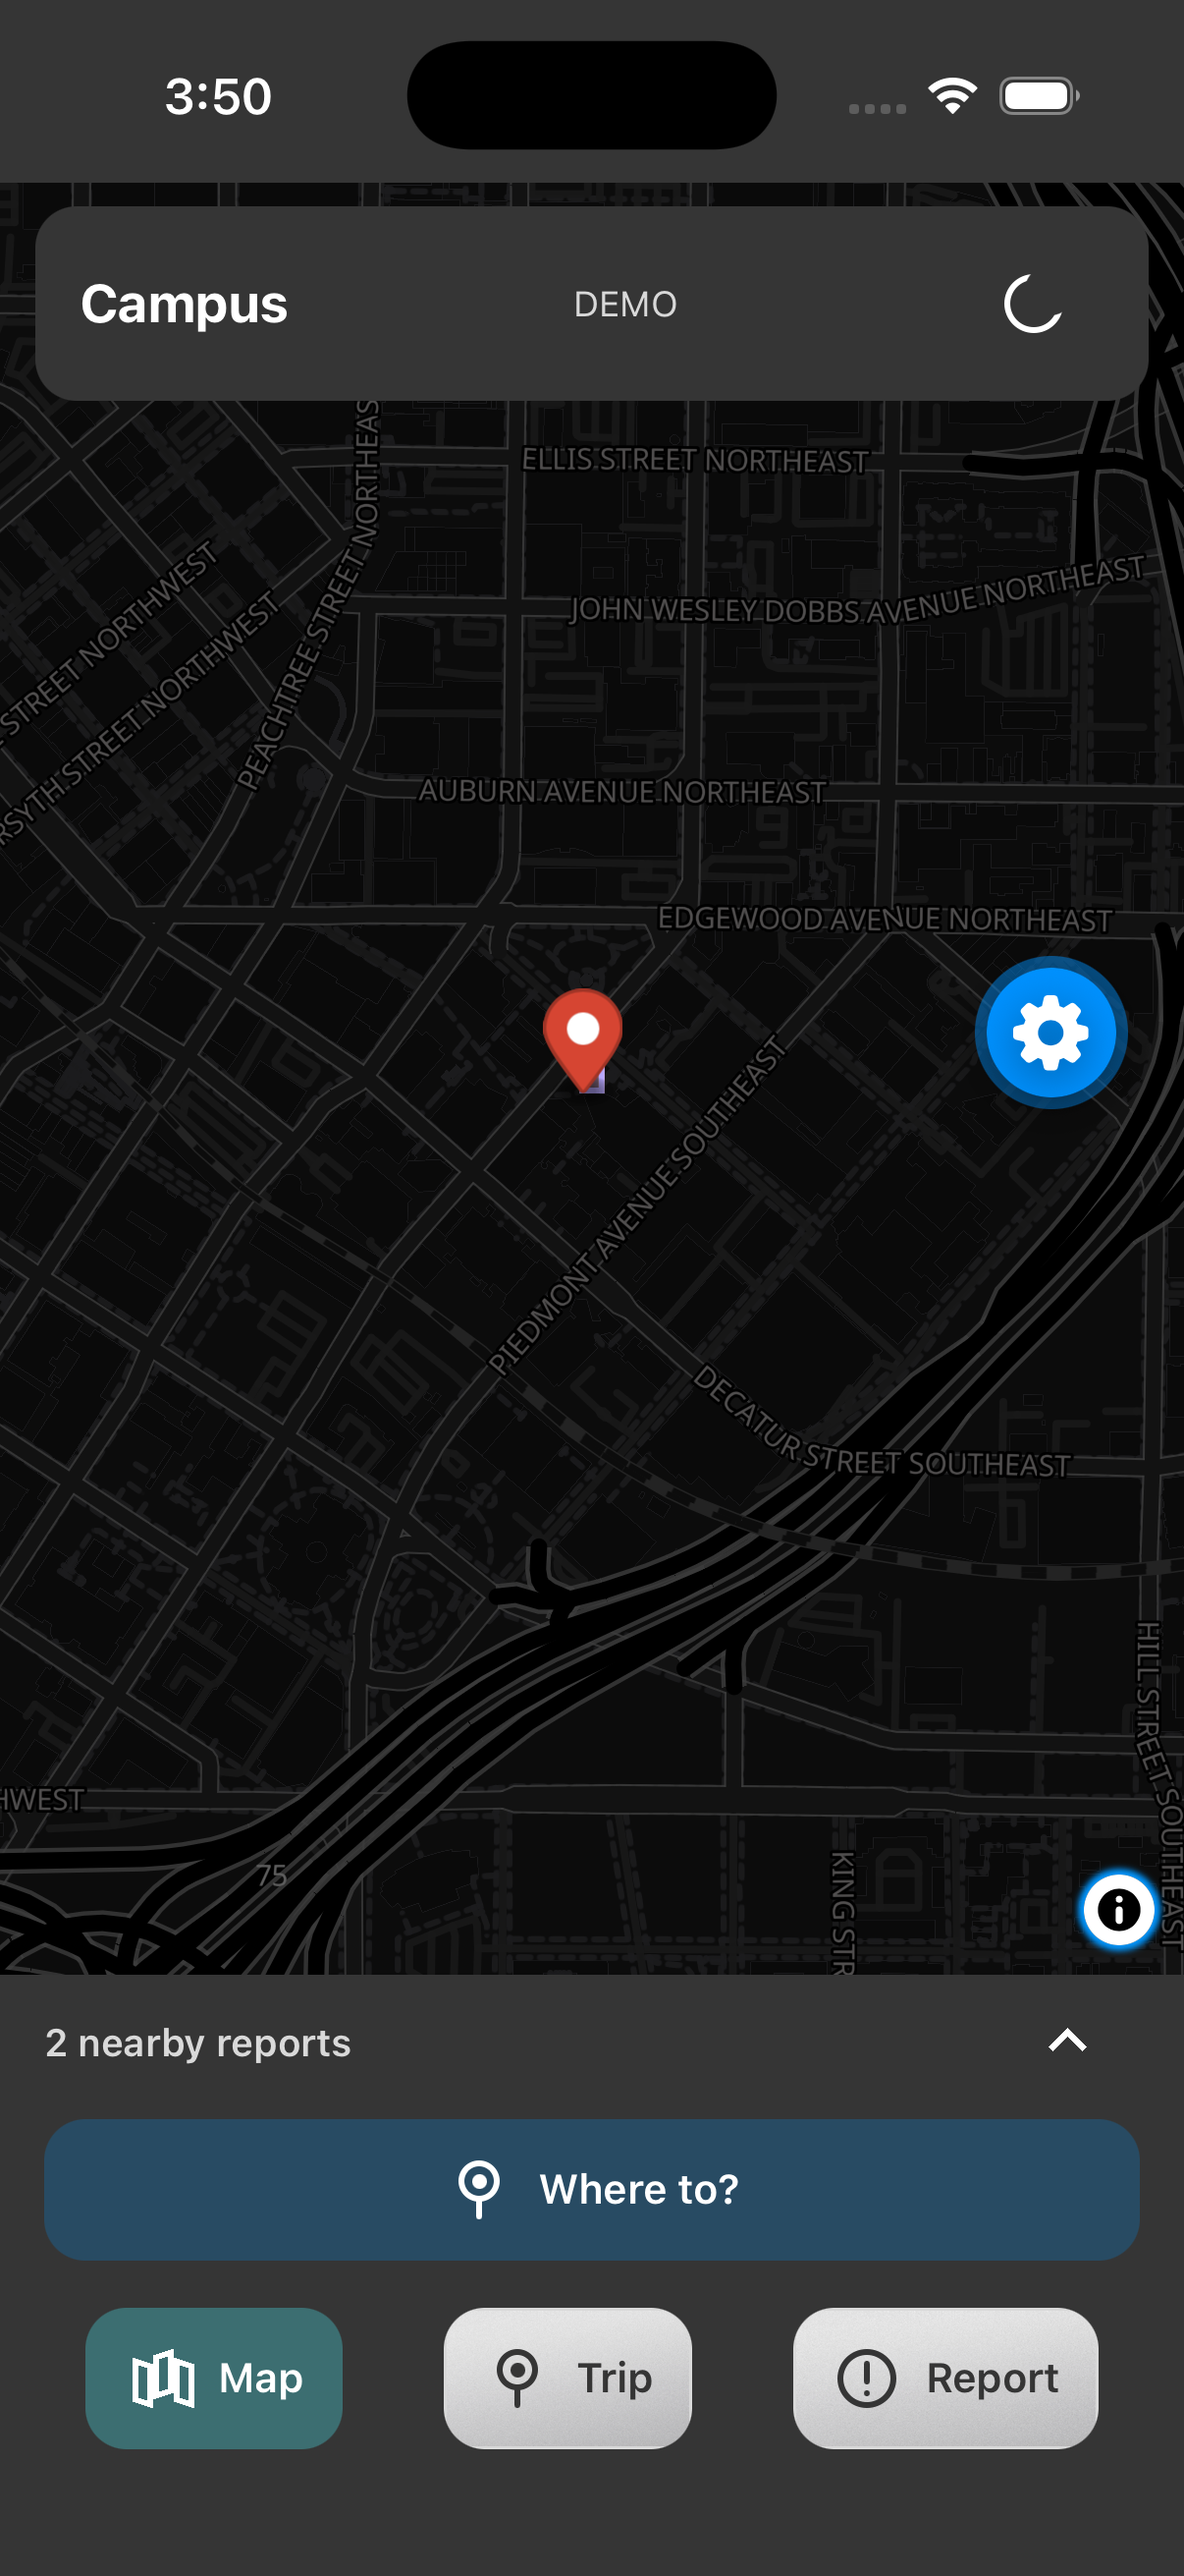
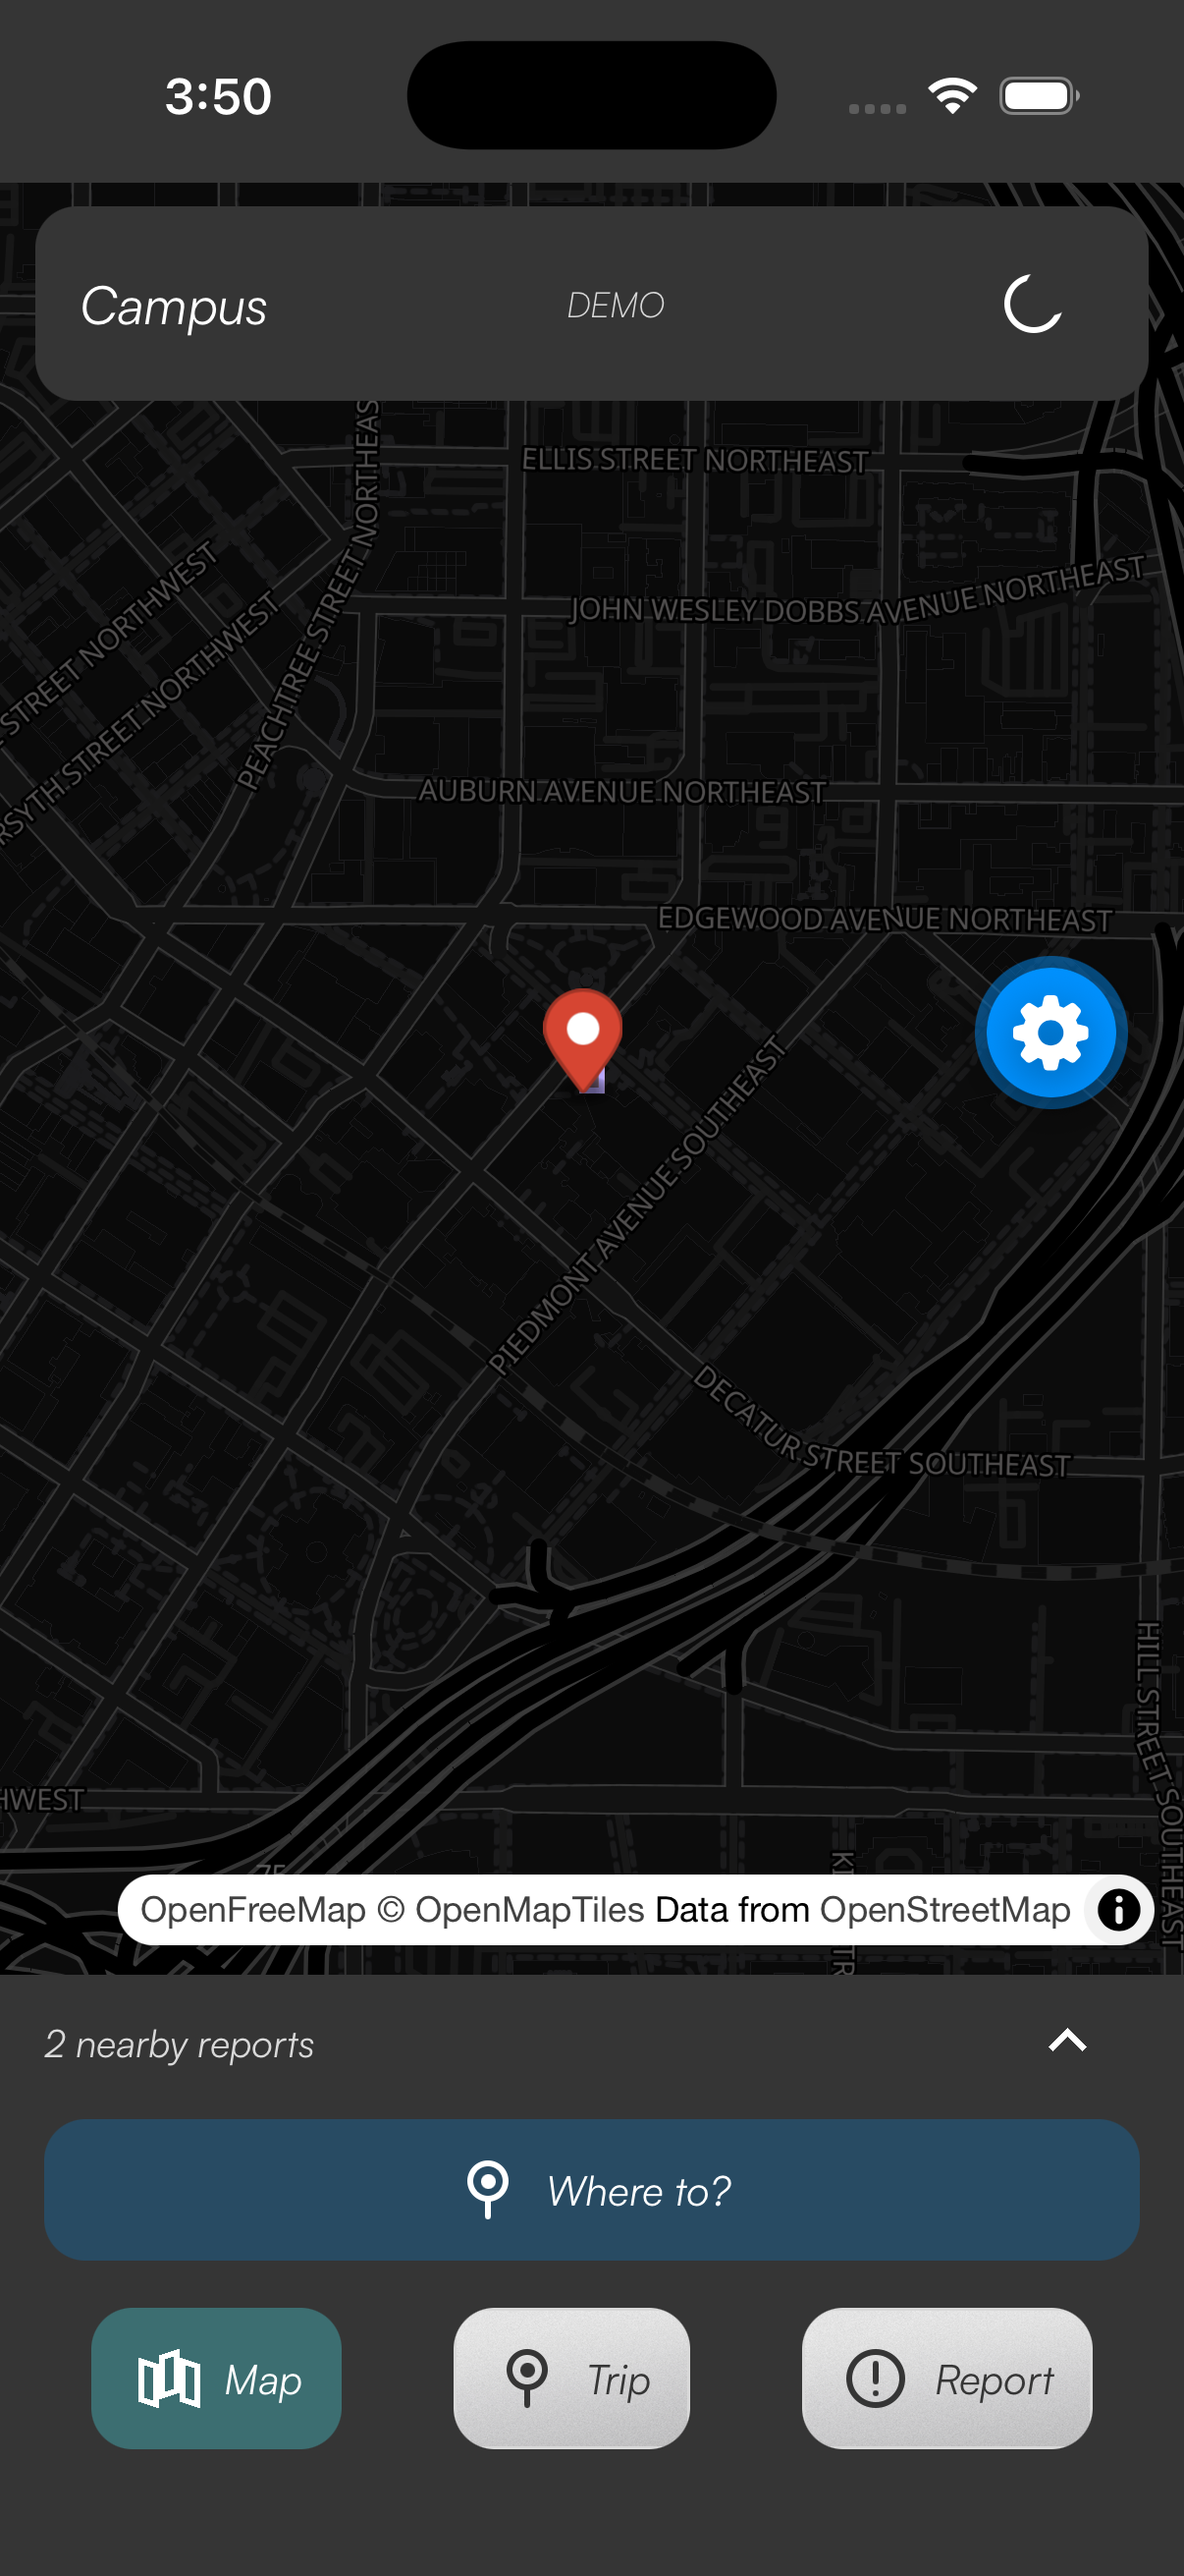
Use Satoshi Italic and Light Italic across the mobile UI

diff --git a/mobile/App.tsx b/mobile/App.tsx
@@ -241,28 +241,28 @@ const createStyles = (theme: Theme) => StyleSheet.create({
   header: { flexDirection: 'row', alignItems: 'center', justifyContent: 'space-between', flexWrap: 'wrap',
     gap: 6, alignSelf: 'stretch', marginHorizontal: 12, backgroundColor: theme.surface,
     borderRadius: theme.radius, paddingHorizontal: 14, paddingVertical: 10, borderWidth: 1, borderColor: theme.line },
-  title: { fontSize: 18, fontWeight: '700', color: theme.ink },
-  headerMeta: { fontSize: 12, color: theme.muted },
-  notice: { padding: 8, marginHorizontal: 12, backgroundColor: theme.surface, color: theme.warning },
+  title: { fontFamily: theme.fontBody, fontSize: 18, color: theme.ink },
+  headerMeta: { fontFamily: theme.fontLight, fontSize: 12, color: theme.muted },
+  notice: { fontFamily: theme.fontBody, padding: 8, marginHorizontal: 12, backgroundColor: theme.surface, color: theme.warning },
   space: { flex: 1 },
   dock: { maxHeight: '36%', backgroundColor: theme.surface, borderTopLeftRadius: 22, borderTopRightRadius: 22,
     borderWidth: 1, borderColor: theme.line, paddingHorizontal: 14, paddingBottom: 4 },
   dockExpanded: { maxHeight: '65%' },
   sheetHeader: { flexDirection: 'row', alignItems: 'center', justifyContent: 'space-between', minHeight: 44 },
-  sheetLabel: { fontSize: 13, fontWeight: '600', color: theme.muted },
+  sheetLabel: { fontFamily: theme.fontBody, fontSize: 13, color: theme.muted },
   iconButton: { width: 48, height: 44, alignItems: 'center', justifyContent: 'center' },
   tabs: { flexDirection: 'row', flexWrap: 'wrap', justifyContent: 'space-around', gap: 6 },
   categories: { flexDirection: 'row', gap: 6, marginVertical: 6 },
   category: { overflow: 'hidden', backgroundColor: theme.quiet, flex: 1, alignItems: 'center', justifyContent: 'center', gap: 6, minHeight: 64, paddingVertical: 8, borderWidth: 1, borderColor: theme.line, borderRadius: theme.radius },
   categorySelected: { backgroundColor: theme.selected, borderColor: theme.selectedEdge },
-  categoryLabel: { fontSize: 11, color: theme.controlInk, textAlign: 'center' },
+  categoryLabel: { fontFamily: theme.fontBody, fontSize: 11, color: theme.controlInk, textAlign: 'center' },
   categoryLabelSelected: { color: theme.inverse },
   content: { flexShrink: 1 }, contentInner: { paddingBottom: 8 },
-  caption: { fontSize: 12, lineHeight: 18, color: theme.muted },
-  source: { color: theme.ink, fontSize: 12, fontWeight: '600' },
+  caption: { fontFamily: theme.fontLight, fontSize: 12, lineHeight: 18, color: theme.muted },
+  source: { fontFamily: theme.fontBody, color: theme.ink, fontSize: 12, fontWeight: '600' },
   card: { paddingVertical: 10, borderBottomWidth: 1, borderColor: theme.line },
-  heading: { fontSize: 16, fontWeight: '600', color: theme.ink, marginVertical: 4 },
-  input: { color: theme.ink, backgroundColor: theme.surface, borderWidth: 1, borderColor: theme.line, borderRadius: theme.radius,
+  heading: { fontFamily: theme.fontBody, fontSize: 16, color: theme.ink, marginVertical: 4 },
+  input: { fontFamily: theme.fontBody, color: theme.ink, backgroundColor: theme.surface, borderWidth: 1, borderColor: theme.line, borderRadius: theme.radius,
     padding: 12, marginVertical: 8, minHeight: theme.touch },
-  error: { color: theme.danger, marginVertical: 8 },
+  error: { fontFamily: theme.fontBody, color: theme.danger, marginVertical: 8 },
 });

diff --git a/mobile/src/ui/theme.ts b/mobile/src/ui/theme.ts
@@ -1,4 +1,5 @@
 import { createContext, createElement, useContext, useState, type ReactNode } from 'react';
+import { useFonts } from 'expo-font';
 import { useColorScheme } from 'react-native';
 
 /** Operator palette: coolors.co/palette/353535-3c6e71-ffffff-d9d9d9-284b63 */
@@ -14,6 +15,7 @@ const light = {
   primary: palette.blue as string, primaryEdge: palette.blue as string,
   inverse: palette.white as string, warning: palette.blue as string, danger: '#a00020',
   routeShortest: palette.charcoal as string, routeLowerRisk: palette.cyan as string,
+  fontBody: undefined as string | undefined, fontLight: undefined as string | undefined,
   radius: 14, touch: 48,
 };
 export type Theme = typeof light;
@@ -24,14 +26,18 @@ const dark: Theme = {
   warning: palette.silver, danger: '#ffb4ab', routeShortest: palette.silver,
 };
 type Appearance = 'light' | 'dark';
-const AppearanceContext = createContext<{ scheme: Appearance; toggle(): void } | null>(null);
+const AppearanceContext = createContext<{ scheme: Appearance; fontsReady: boolean; toggle(): void } | null>(null);
 
 export function ThemeProvider({ children }: { children: ReactNode }) {
+  const [fontsReady] = useFonts({
+    'Satoshi-Italic': require('../../assets/fonts/Satoshi-Italic.otf'),
+    'Satoshi-LightItalic': require('../../assets/fonts/Satoshi-LightItalic.otf'),
+  });
   const system = useColorScheme();
   const [override, setOverride] = useState<Appearance | null>(null);
   const scheme = override ?? (system === 'dark' ? 'dark' : 'light');
   return createElement(AppearanceContext.Provider, {
-    value: { scheme, toggle: () => setOverride(scheme === 'dark' ? 'light' : 'dark') },
+    value: { scheme, fontsReady, toggle: () => setOverride(scheme === 'dark' ? 'light' : 'dark') },
   }, children);
 }
 export function useAppearance() {
@@ -40,5 +46,9 @@ export function useAppearance() {
   return appearance;
 }
 export function useTheme(): Theme {
-  return useAppearance().scheme === 'dark' ? dark : light;
+  const { scheme, fontsReady } = useAppearance();
+  return { ...(scheme === 'dark' ? dark : light),
+    fontBody: fontsReady ? 'Satoshi-Italic' : undefined,
+    fontLight: fontsReady ? 'Satoshi-LightItalic' : undefined,
+  };
 }

diff --git a/mobile/src/routes/RouteScreen.tsx b/mobile/src/routes/RouteScreen.tsx
@@ -74,9 +74,9 @@ const createStyles = (theme: Theme) => StyleSheet.create({
   card: { flex: 1, minWidth: 120, padding: 10, borderRadius: theme.radius, borderWidth: 1, borderColor: theme.line, marginVertical: 4 },
   legend: { flexDirection: 'row', alignItems: 'center', gap: 5 },
   swatch: { width: 15, height: 3, borderRadius: 1 },
-  label: { fontSize: 13, fontWeight: '600', color: theme.ink, flexShrink: 1 },
-  metrics: { fontSize: 24, fontWeight: '700', color: theme.ink, marginVertical: 4 },
-  fine: { color: theme.muted, fontSize: 12, lineHeight: 18, marginVertical: 2 },
+  label: { fontFamily: theme.fontBody, fontSize: 13, color: theme.ink, flexShrink: 1 },
+  metrics: { fontFamily: theme.fontBody, fontSize: 24, color: theme.ink, marginVertical: 4 },
+  fine: { fontFamily: theme.fontLight, color: theme.muted, fontSize: 12, lineHeight: 18, marginVertical: 2 },
   notice: { color: theme.warning, fontSize: 12, marginVertical: 4 },
-  error: { color: theme.danger, marginVertical: 6 },
+  error: { fontFamily: theme.fontBody, color: theme.danger, marginVertical: 6 },
 });

diff --git a/mobile/src/ui/ActionButton.tsx b/mobile/src/ui/ActionButton.tsx
@@ -30,7 +30,7 @@ const createStyles = (theme: Theme) => StyleSheet.create({
     paddingVertical: 10, borderRadius: theme.radius, backgroundColor: theme.quiet, marginVertical: 4, flexShrink: 1, borderWidth: 1, borderColor: theme.line },
   primary: { backgroundColor: theme.primary, borderColor: theme.primaryEdge },
   selected: { backgroundColor: theme.selected, borderColor: theme.selectedEdge },
-  label: { color: theme.controlInk, fontSize: 14, fontWeight: '600', textAlign: 'center' },
+  label: { fontFamily: theme.fontBody, color: theme.controlInk, fontSize: 14, textAlign: 'center' },
   primaryLabel: { color: theme.inverse },
   disabled: { opacity: 0.6, borderStyle: 'dashed' },
   pressed: { opacity: 0.75 },

diff --git a/mobile/scripts/fetch-fonts.py b/mobile/scripts/fetch-fonts.py
@@ -1,0 +1,22 @@
+"""Fetch unmodified Satoshi faces from Fontshare; loose font files stay out of Git."""
+from pathlib import Path
+import hashlib
+import io
+import urllib.request
+import zipfile
+
[1 lines of base64/hex data omitted]
+root = Path(__file__).resolve().parents[1] / "assets" / "fonts"
+def valid(path, digest):
+    return path.exists() and hashlib.sha256(path.read_bytes()).hexdigest() == digest
+if not all(valid(root / name, digest) for name, digest in EXPECTED.items()):
+    with urllib.request.urlopen("https://api.fontshare.com/v2/fonts/download/satoshi", timeout=60) as response:
+        archive = zipfile.ZipFile(io.BytesIO(response.read()))
+    assets = {name: archive.read("Satoshi_Complete/Fonts/OTF/" + name) for name in EXPECTED}
+    for name, data in assets.items():
+        if hashlib.sha256(data).hexdigest() != EXPECTED[name]:
+            raise SystemExit("Fontshare changed " + name + "; review before updating its checksum")
+    root.mkdir(parents=True, exist_ok=True)
+    for name, data in assets.items():
+        (root / name).write_bytes(data)
+print("Satoshi Light Italic and Italic verified")

diff --git a/mobile/docs/FONT-DEPENDENCY-REVIEW.md b/mobile/docs/FONT-DEPENDENCY-REVIEW.md
@@ -1,0 +1,24 @@
+# Font loader review — 2026-10-10
+
+Added exact `expo-font@57.0.1`, matching the installed Expo 57.0.17 compatibility table
+(`~57.0.1`), rather than selecting the newest release. Expo's [font documentation](https://docs.expo.dev/versions/v57.0.0/sdk/font/)
+confirms native runtime loading and Expo Go support.
+
+Reviewed npm package metadata, registry signature/integrity, official Expo repository link,
+package contents, changelog and native asset loader. 57.0.1 was released 2026-07-15; its
+`src/` files are identical to the downloaded 57.0.0 package. Package metadata lists the Expo
+maintainer team for both versions (not independent proof of historical account ownership).
+No install lifecycle scripts are present. The single declared dependency, fontfaceobserver,
+was already locked at 2.3.0; there are no new transitive packages. Its metadata points to
+bramstein/fontfaceobserver and has no install lifecycle scripts.
+
+`npm audit` after installation reports no expo-font or fontfaceobserver advisory. The existing
+22 findings remain (7 moderate, 15 high); no unrelated upgrades were made. Registry integrity
+is pinned in package-lock.json. No compromise indicators were observed in this scoped review;
+this is not a guarantee of supply-chain safety.
+
+Satoshi font files come directly from api.fontshare.com, remain unmodified and are checked
+against the SHA-256 values in scripts/fetch-fonts.py. They are excluded from Git. Native font
+loading uses bundled assets and falls back to system text if loading fails, without blocking
+map/report access. Fontshare's license was reviewed for application embedding and loose-file
+redistribution restrictions; see the fonts README.

diff --git a/mobile/assets/fonts/README.md b/mobile/assets/fonts/README.md
@@ -1,0 +1,12 @@
+# Satoshi fonts
+
+Source: [Fontshare Satoshi](https://www.fontshare.com/fonts/satoshi), downloaded 2026-10-10.
+Use the unmodified Satoshi-Italic.otf and Satoshi-LightItalic.otf faces.
+Run `npm run fonts:fetch --prefix mobile` from the repository root; start/build run it automatically.
+The script validates SHA-256 hashes and fails if the upstream font files change.
+
+Fontshare's distributed ITF Free Font License v2.0 permits embedding in the licensee's own
+application but restricts redistribution of loose fonts. OTFs are Git-ignored; each build fetches
+its own official copy. The fonts are then bundled for offline app use. Obtain the full current
+terms from [Fontshare](https://www.fontshare.com/licenses) or the official download archive.
+Do not modify, convert or subset the font files.

diff --git a/mobile/docs/UI-GUIDE.md b/mobile/docs/UI-GUIDE.md
@@ -85,3 +85,10 @@ report location and optional description remain pending the separate #23/#24 wor
 Known follow-up: inherited location/storage errors still share an app-level error area inside
 the panel; move each error beside its owning remedy when splitting the report/location UI.
 Do not hide those errors just to make the panel quieter.
+
+## Typography
+
+Use Satoshi Italic for headings, controls, route metrics, inputs and errors. Use Satoshi Light
+Italic for supporting captions and metadata. Select the actual font face through the shared
+theme; do not synthesize bold/italic variants. Fonts are bundled after the official download
+step; system text remains usable if font loading fails. Map-provider labels stay unchanged.

diff --git a/mobile/README.md b/mobile/README.md
@@ -154,3 +154,9 @@ the pinned releases match the bundled SDK 57 compatibility manifest, and TypeScr
 our existing checks. Review upgrades before running `expo install --fix`.
 Motion activity permission is explicitly disabled in the location plugin. The app still requests
 only a one-shot foreground location when the user taps the location action.
+
+### UI fonts
+
+Start/build automatically fetch and verify Satoshi Italic and Light Italic from Fontshare.
+A first build needs network access and Python 3; subsequent runs reuse verified local files.
+See [font setup](assets/fonts/README.md) and [dependency review](docs/FONT-DEPENDENCY-REVIEW.md).
